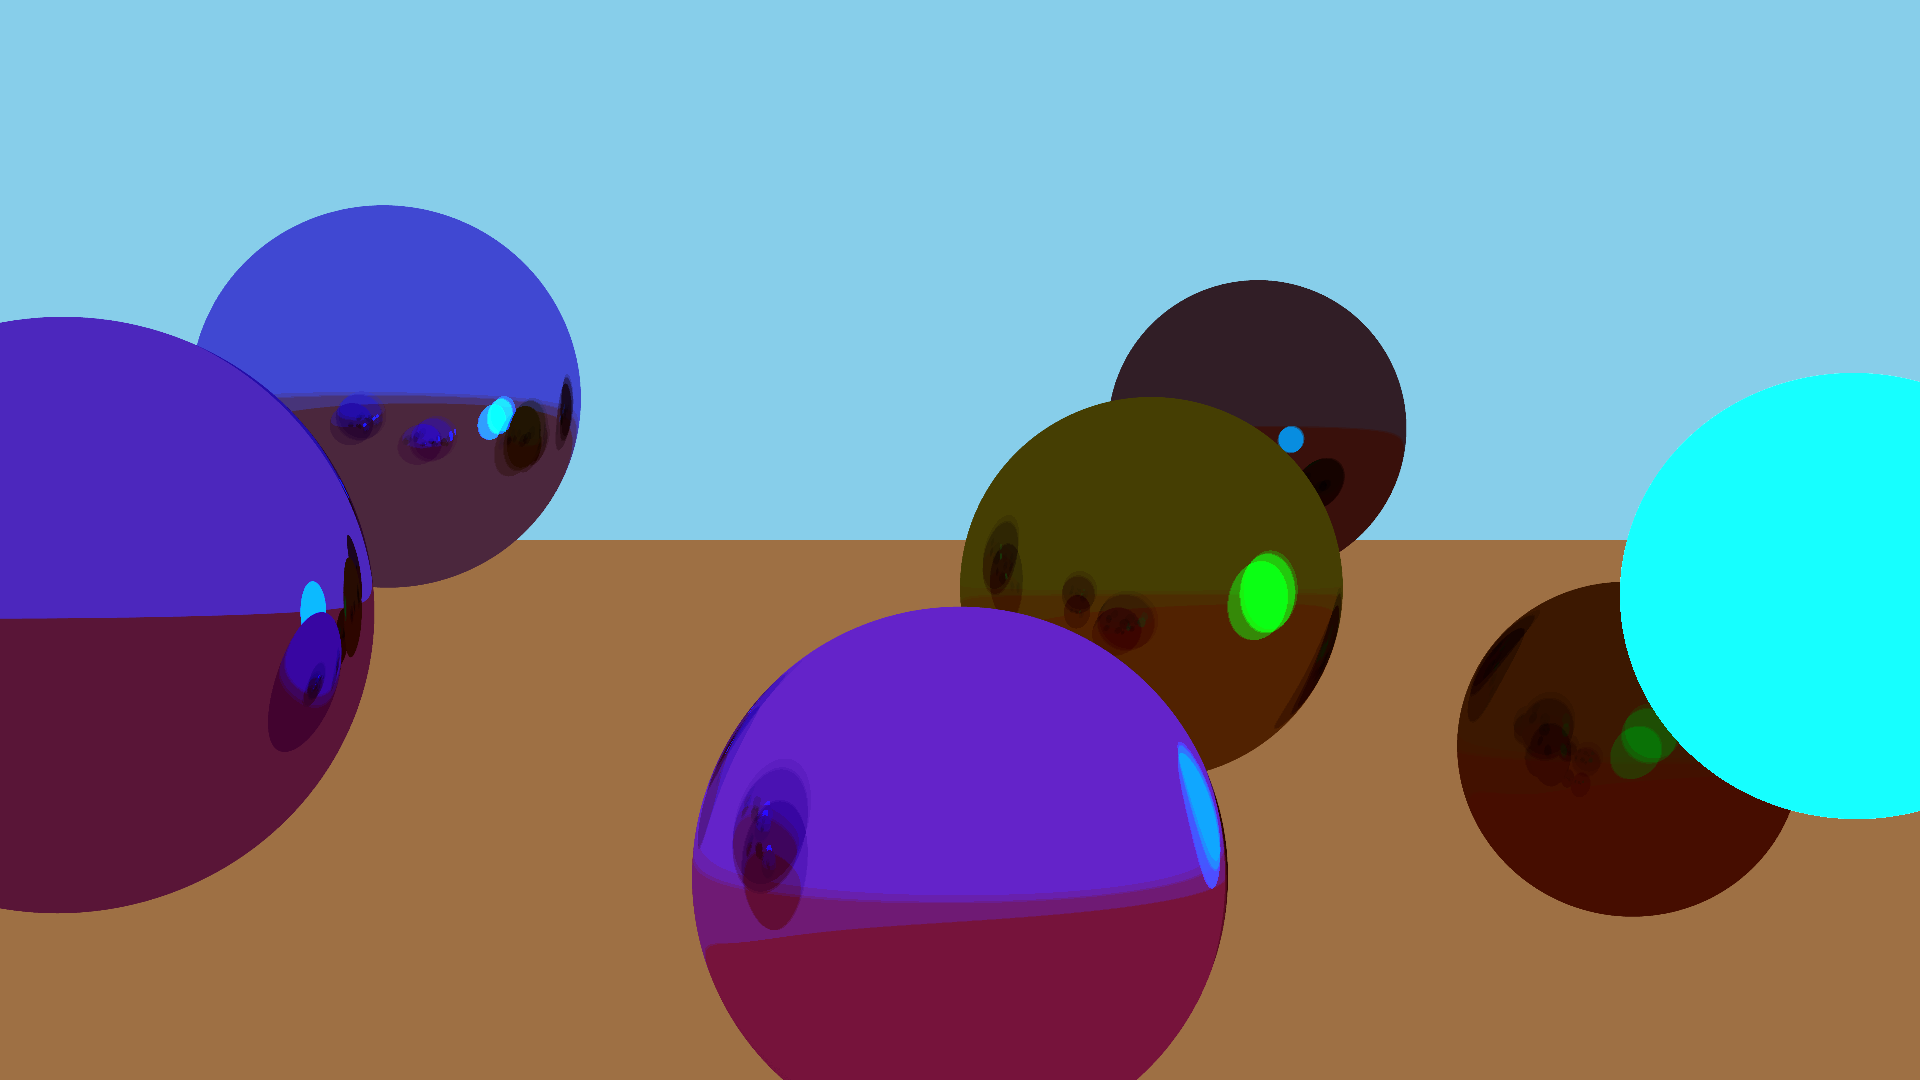
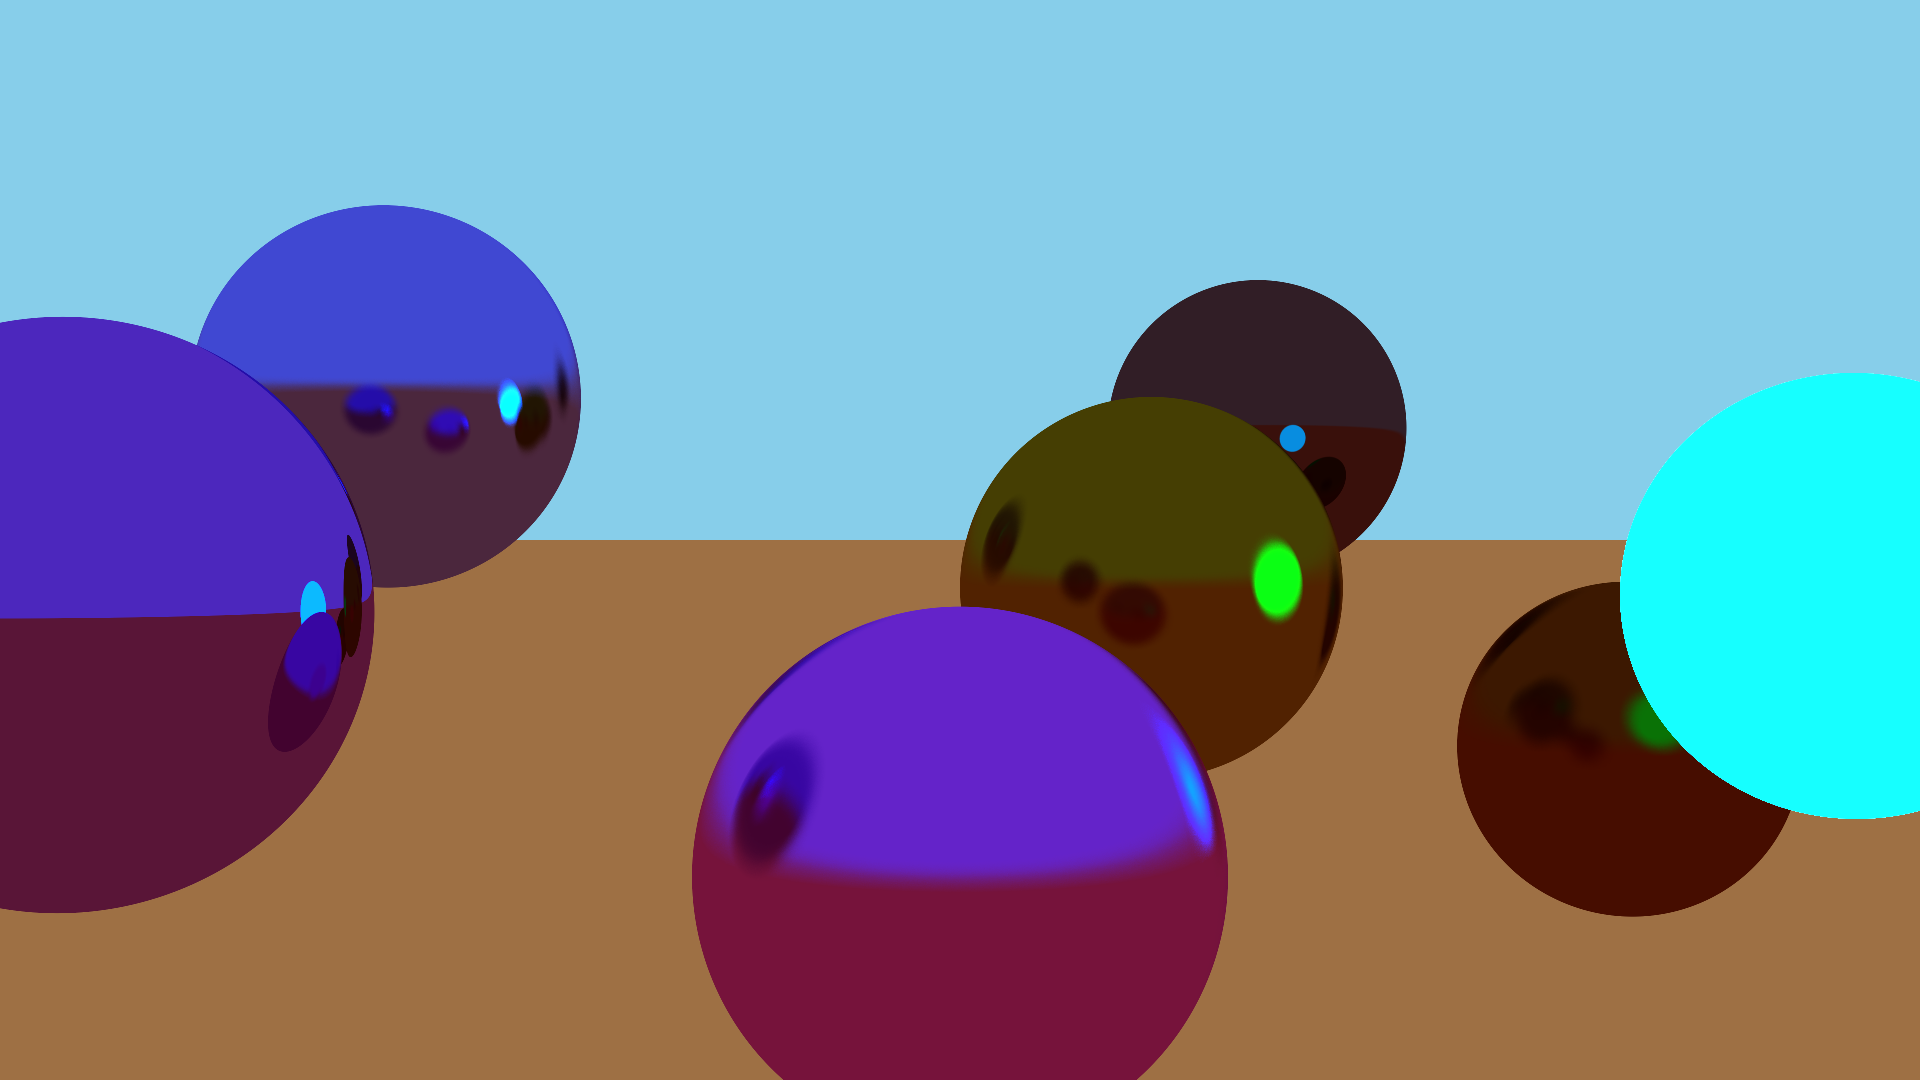
Fixing jittered ray in diffuse material

diff --git a/RayTracerLib/GPUMaterialCalculator.cpp b/RayTracerLib/GPUMaterialCalculator.cpp
@@ -57,7 +57,7 @@ void GPUMaterialCalculator::GPUDiffuseMaterial::Execute(uint32_t compute_queue_i
 {
 	TRACE_FUNCTION(performance_session);
 
-	DiffuseMaterialPushConstants.random_seed = static_cast<float>(rand()) / static_cast<float>(RAND_MAX);
+	DiffuseMaterialPushConstants.random_seed = static_cast<uint32_t>(rand());
 
 	GPUComputeShader::Execute(compute_queue_index, incoming_ray_count, std::vector<vk::Buffer>{input_gpu_intersection_buffer, output_gpu_ray_buffer, input_gpu_material_parameters}, static_cast<void *>(&DiffuseMaterialPushConstants));
 }

diff --git a/include/GPUMaterialCalculator.h b/include/GPUMaterialCalculator.h
@@ -62,11 +62,11 @@ namespace RayTracer
 				push_constants()
 				{
 					material_id = static_cast<uint32_t>(GPURenderer::MaterialTypeID::diffuse);
-					random_seed = static_cast<float>(rand()) / static_cast<float>(RAND_MAX);
+					random_seed = static_cast<uint32_t>(rand());
 				}
 
 				uint32_t material_id;
-				float random_seed;
+				uint32_t random_seed;
 			} DiffuseMaterialPushConstants;
 
 			const std::unique_ptr<PerformanceTracking::PerformanceSession> &performance_session;
